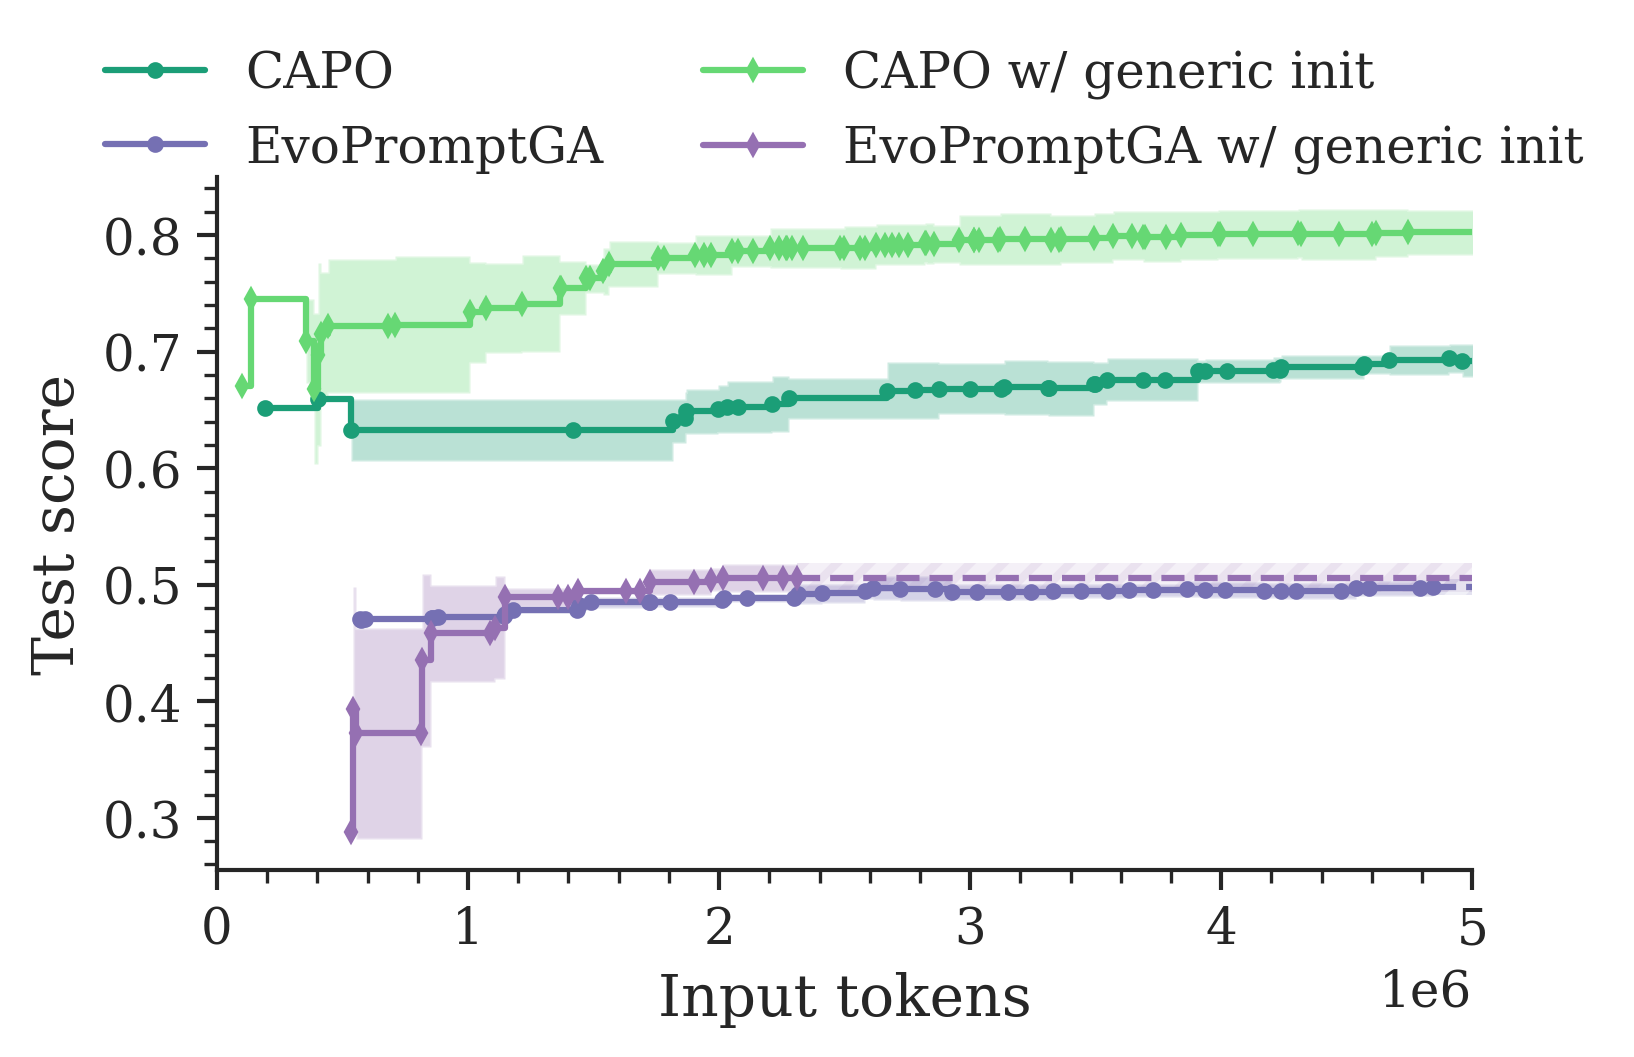
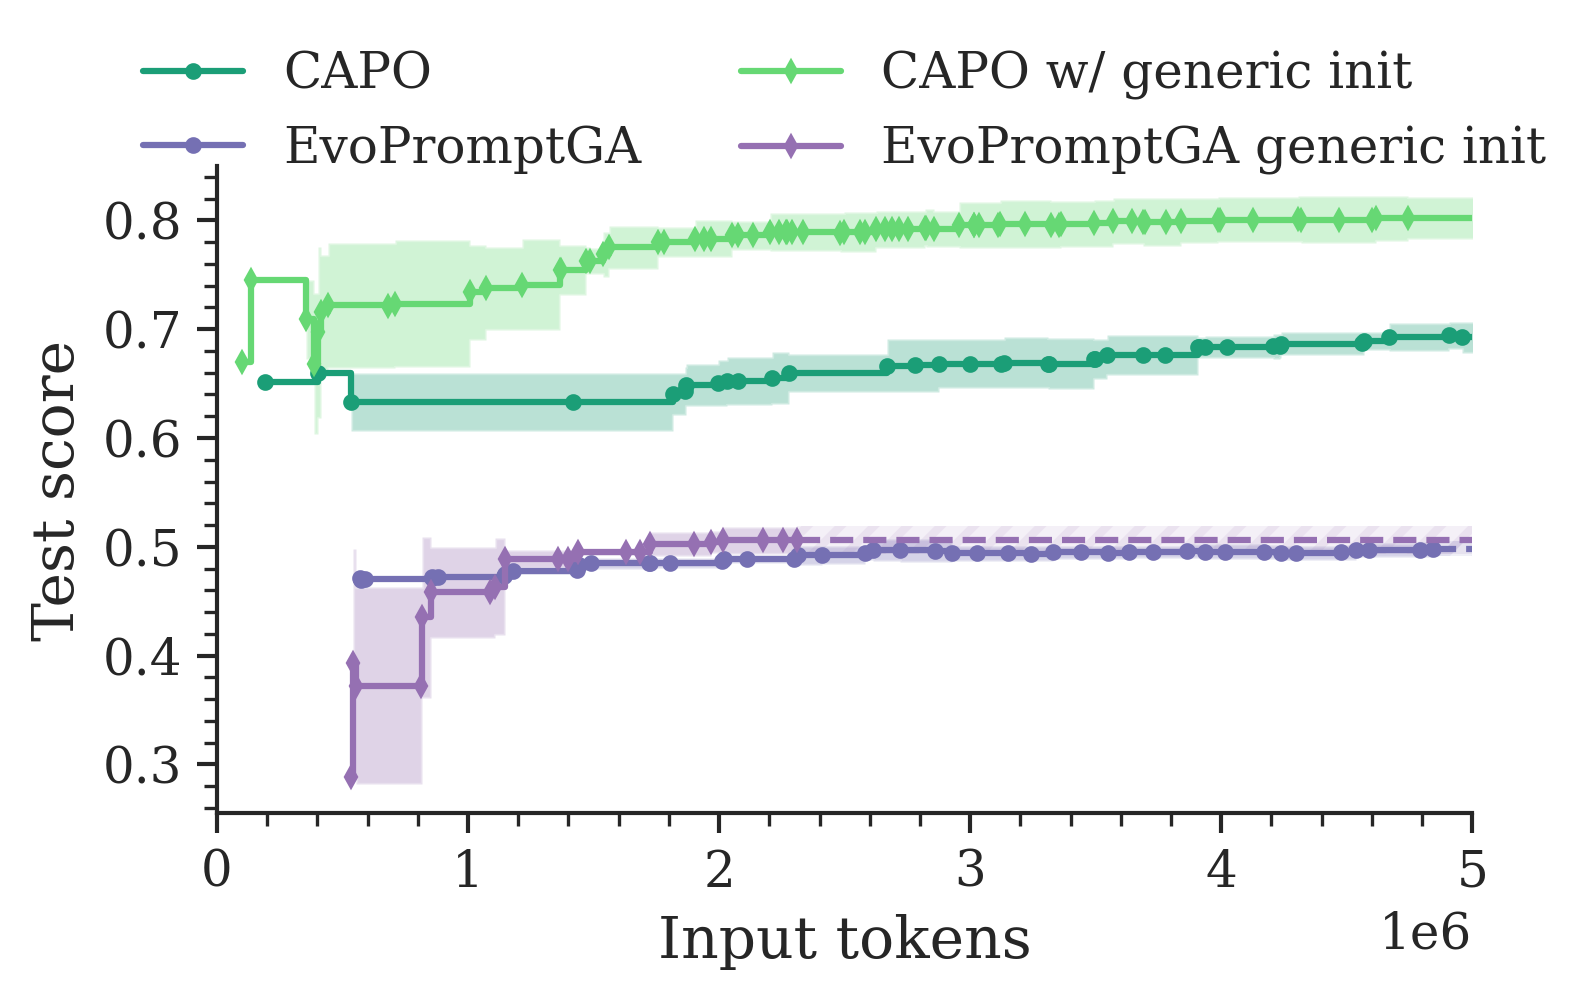
change figure dimensions

diff --git a/scripts/plot_creation.py b/scripts/plot_creation.py
@@ -245,6 +245,7 @@ if __name__ == "__main__":
             plot_stddev=True,
             x_col="step",
             score_col="input_tokens_sum",
+            figsize=(5.4, 2.8),
         )
 
         fig.savefig(
@@ -264,7 +265,7 @@ if __name__ == "__main__":
                 colors=colors,
                 markers=markers,
                 ncols=2,
-                figsize=(5.4, 3),
+                figsize=(5.4, 2.8),
             )
             fig.savefig(
                 f"./results/plots/ablation_racing_{dataset}.png",
@@ -282,7 +283,7 @@ if __name__ == "__main__":
                 colors=colors,
                 markers=markers,
                 ncols=2,
-                figsize=(5.4, 3),
+                figsize=(5.4, 2.8),
             )
 
             fig.savefig(
@@ -300,7 +301,7 @@ if __name__ == "__main__":
                 score_col="test_score",
                 log_scale=False,
                 ncols=2,
-                figsize=(5.4, 3),
+                figsize=(5.4, 2.8),
             )
 
             fig.savefig(
@@ -319,11 +320,35 @@ if __name__ == "__main__":
                 colors=colors,
                 markers=markers,
                 ncols=2,
-                figsize=(5.4, 3),
+                figsize=(5.4, 2.8),
             )
 
             fig.savefig(
                 f"./results/plots/ablation_evo_td_{dataset}.png",
+                bbox_inches="tight",
+            )
+
+            fig = plot_population_scores_comparison(
+                dataset,
+                "llama",
+                ["CAPO", "EvoPromptGA", "CAPO_generic_init", "EvoPromptGA_generic_init"],
+                labels=[
+                    "CAPO",
+                    "EvoPromptGA",
+                    "CAPO w/ generic init",
+                    "EvoPromptGA generic init",
+                ],
+                plot_stddev=True,
+                plot_seeds=False,
+                x_col="input_tokens_cum",
+                colors=colors,
+                markers=markers,
+                ncols=2,
+                figsize=(5.4, 2.8),
+            )
+
+            fig.savefig(
+                f"./results/plots/ablation_generic_init_{dataset}.png",
                 bbox_inches="tight",
             )
 
@@ -348,53 +373,5 @@ if __name__ == "__main__":
 
         fig.savefig(
             "./results/plots/ablation_generic_init_agnews_main_pre.png",
-            bbox_inches="tight",
-        )
-
-        fig = plot_population_scores_comparison(
-            "agnews",
-            "llama",
-            ["CAPO", "EvoPromptGA", "CAPO_generic_init", "EvoPromptGA_generic_init"],
-            labels=[
-                "CAPO",
-                "EvoPromptGA",
-                "CAPO w/ generic init",
-                "EvoPromptGA generic init",
-            ],
-            plot_stddev=True,
-            plot_seeds=False,
-            x_col="input_tokens_cum",
-            colors=colors,
-            markers=markers,
-            ncols=2,
-            figsize=(5.4, 3),
-        )
-
-        fig.savefig(
-            "./results/plots/ablation_generic_init_agnews.png",
-            bbox_inches="tight",
-        )
-
-        fig = plot_population_scores_comparison(
-            "gsm8k",
-            "llama",
-            ["CAPO", "EvoPromptGA", "CAPO_generic_init", "EvoPromptGA_generic_init"],
-            labels=[
-                "CAPO",
-                "EvoPromptGA",
-                "CAPO w/ generic init",
-                "EvoPromptGA w/ generic init",
-            ],
-            plot_stddev=True,
-            plot_seeds=False,
-            x_col="input_tokens_cum",
-            colors=colors,
-            markers=markers,
-            ncols=2,
-            figsize=(5.4, 3),
-        )
-
-        fig.savefig(
-            "./results/plots/ablation_generic_init_gsm8k.png",
             bbox_inches="tight",
         )
